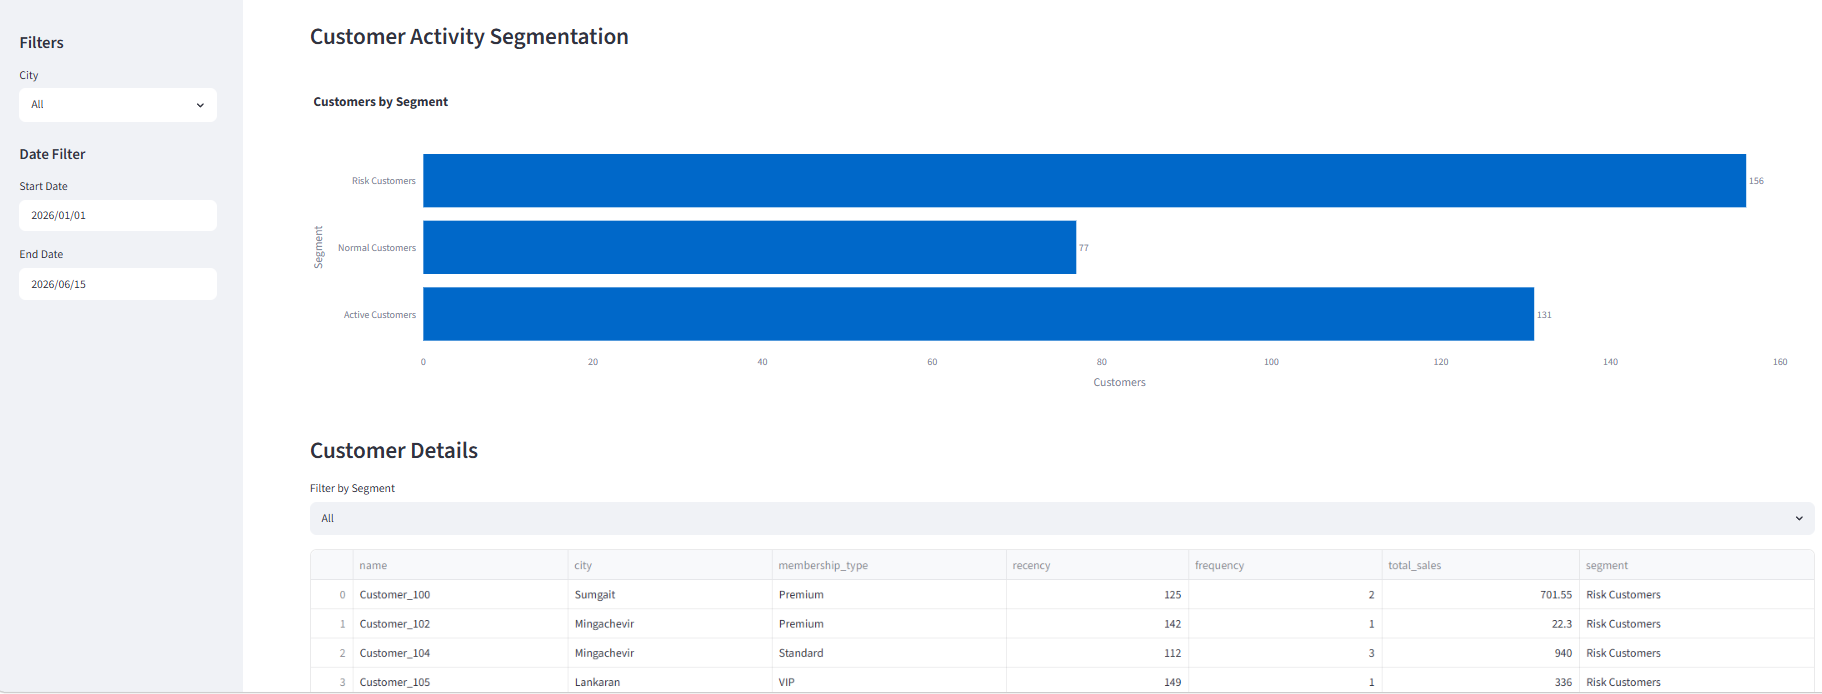
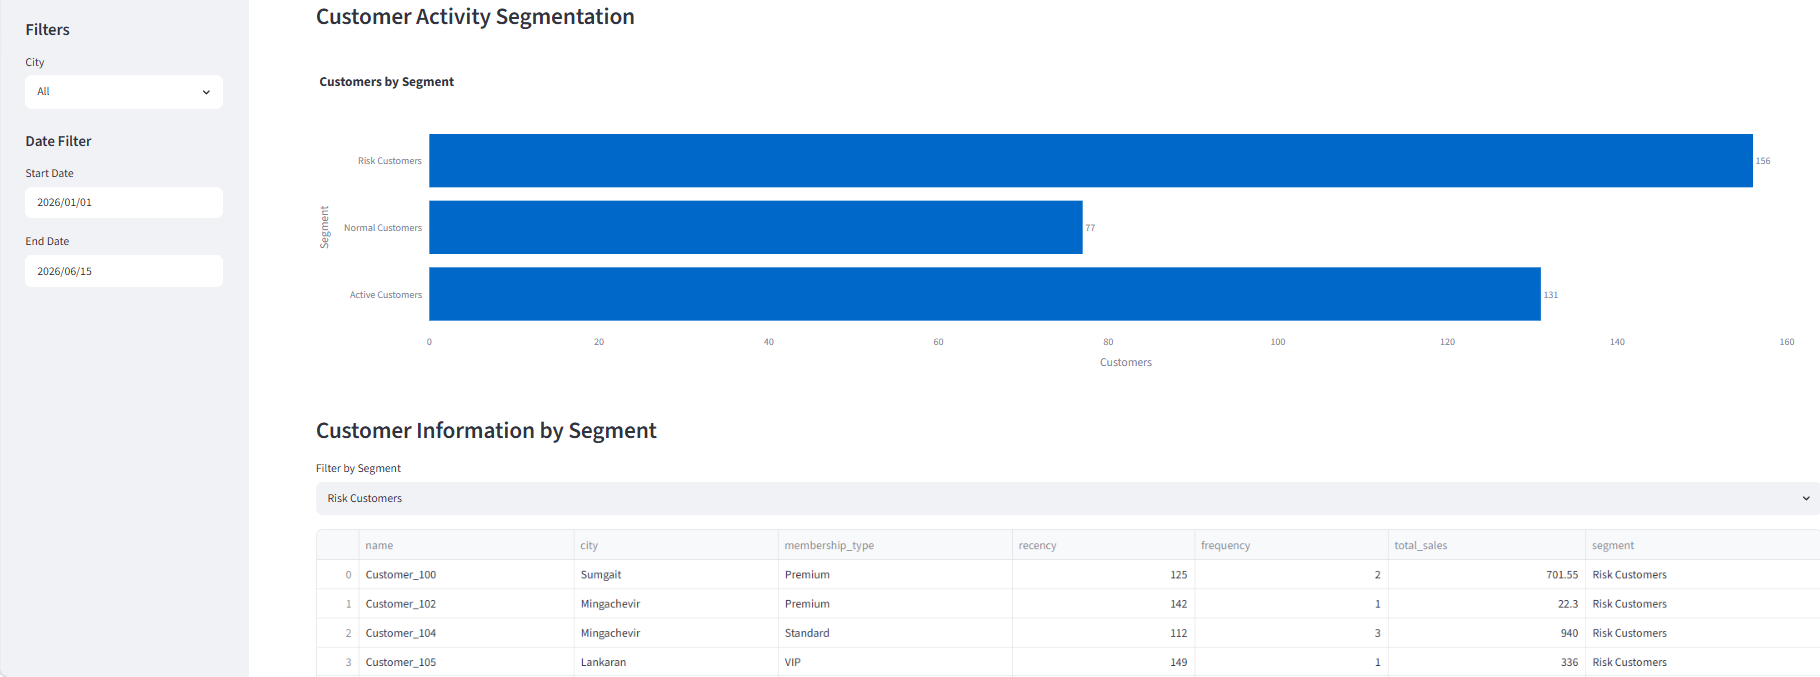
Added customer activity segmentation analysis

diff --git a/app.py b/app.py
@@ -441,7 +441,7 @@ fig_segment.update_traces(
 fig_segment.update_layout(
     height=420,
     xaxis_title="Customers",
-    yaxis_title="Segment",
+    yaxis_title="",
     showlegend=False
 )
 